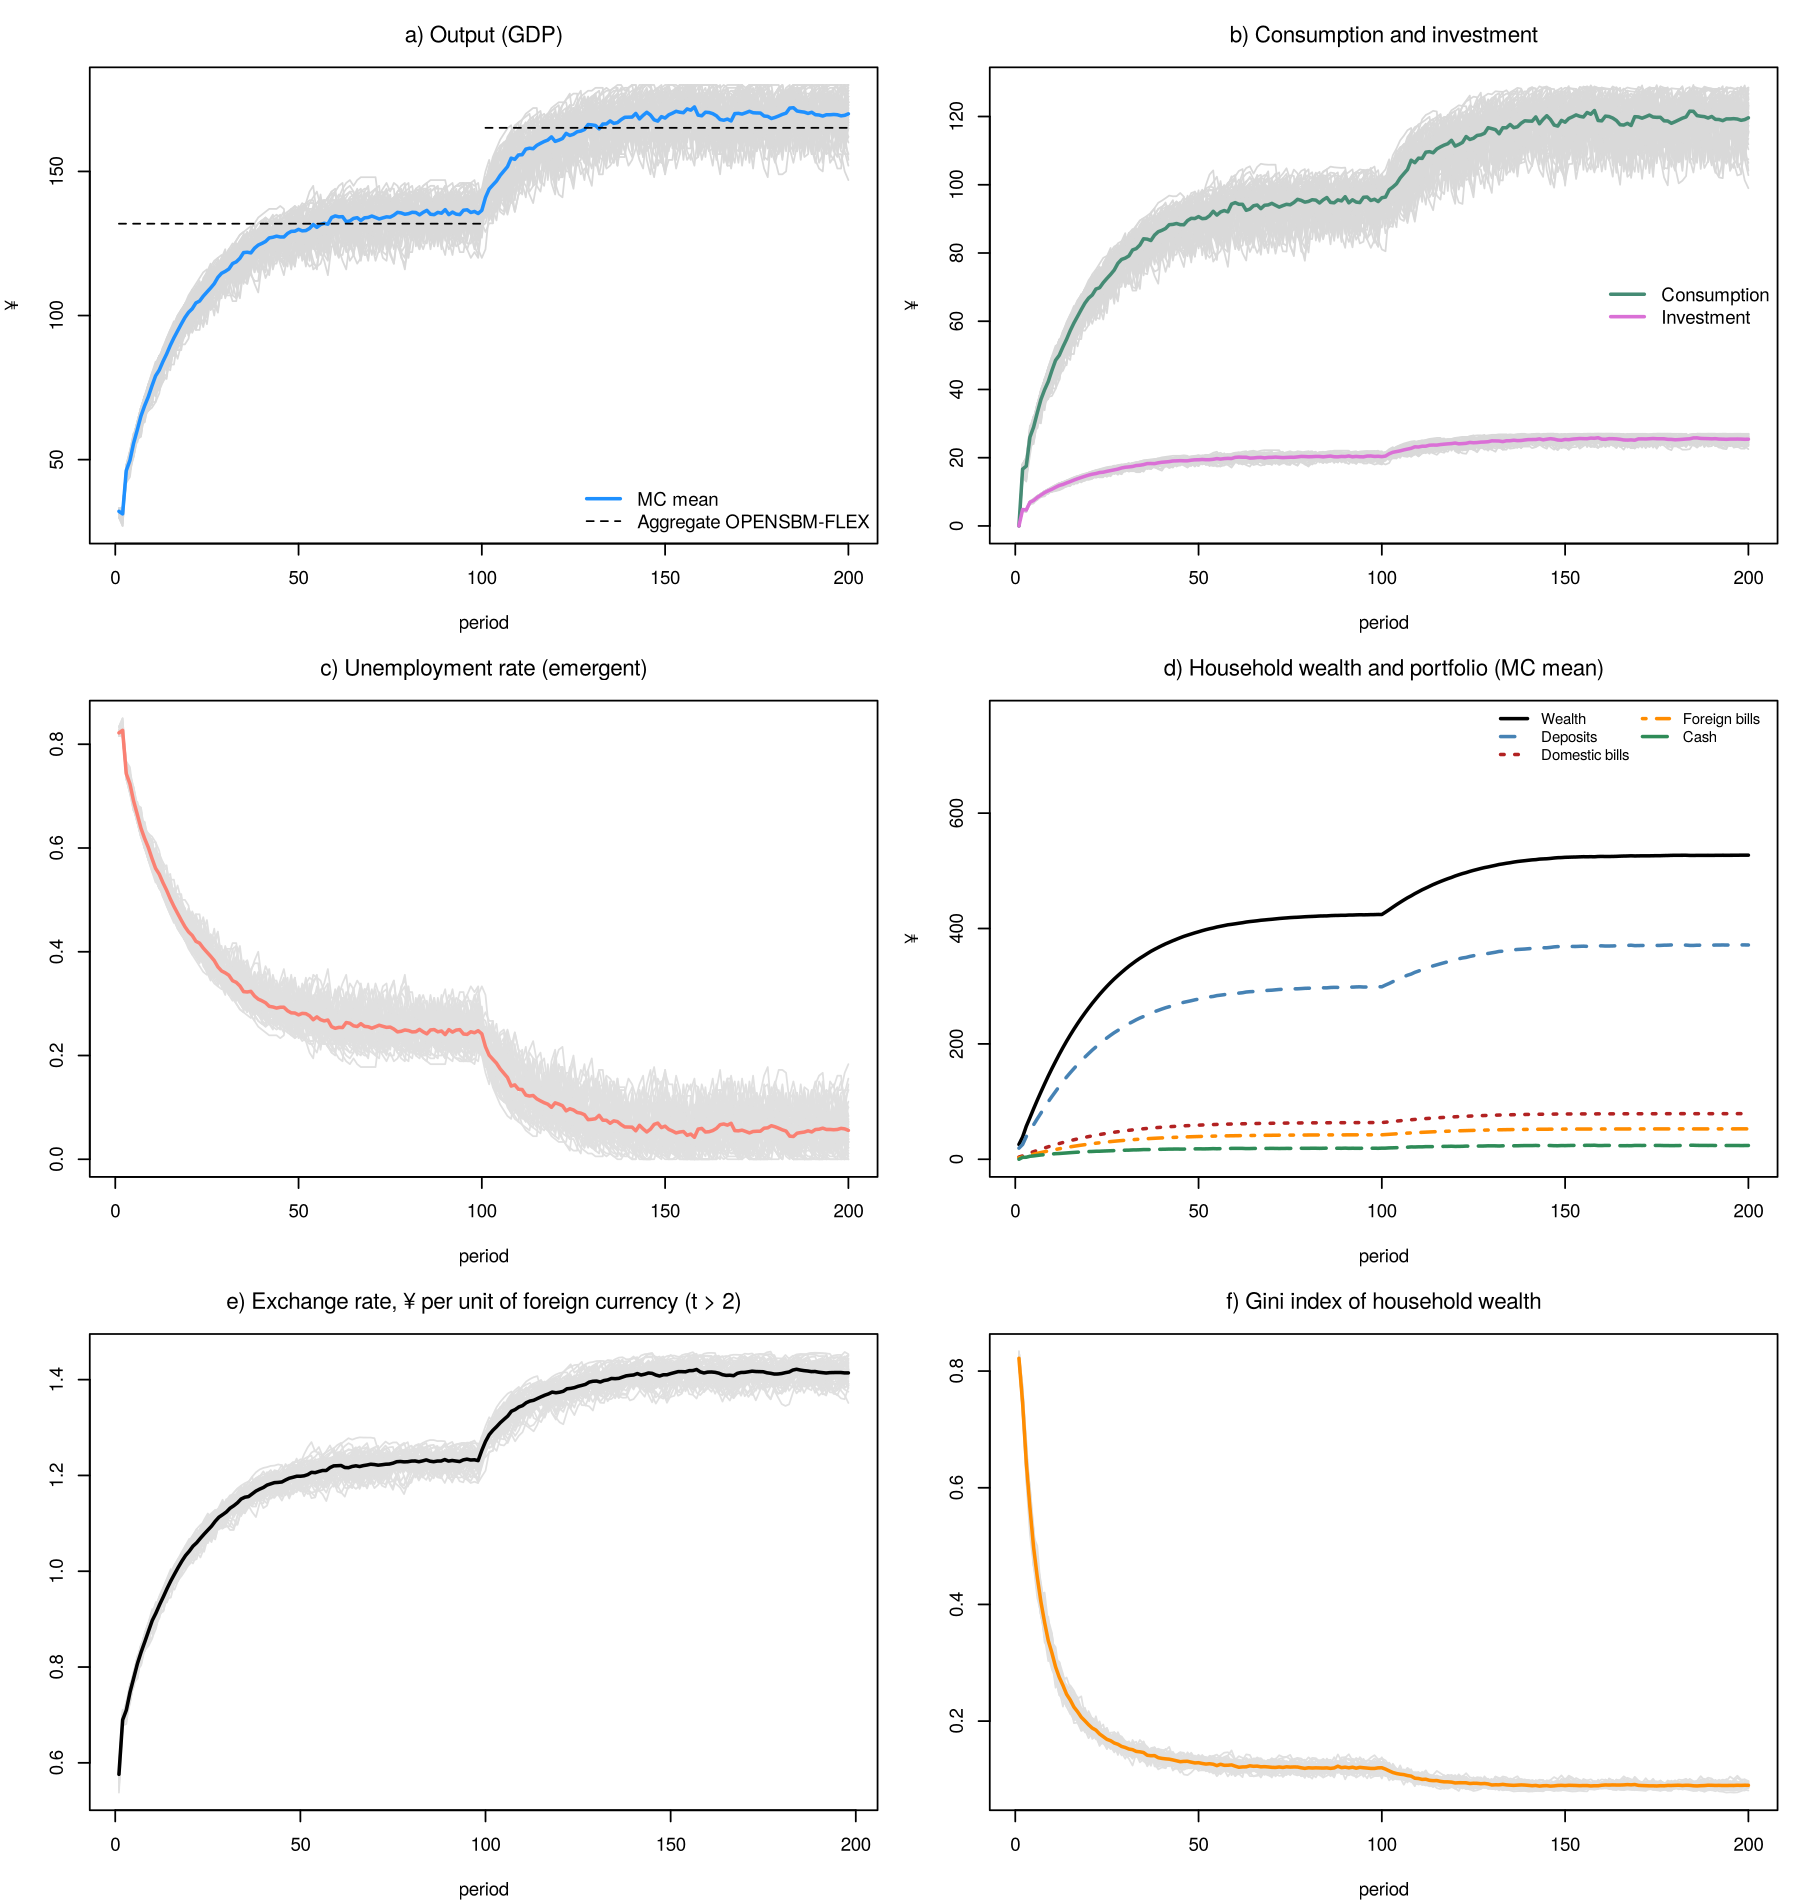
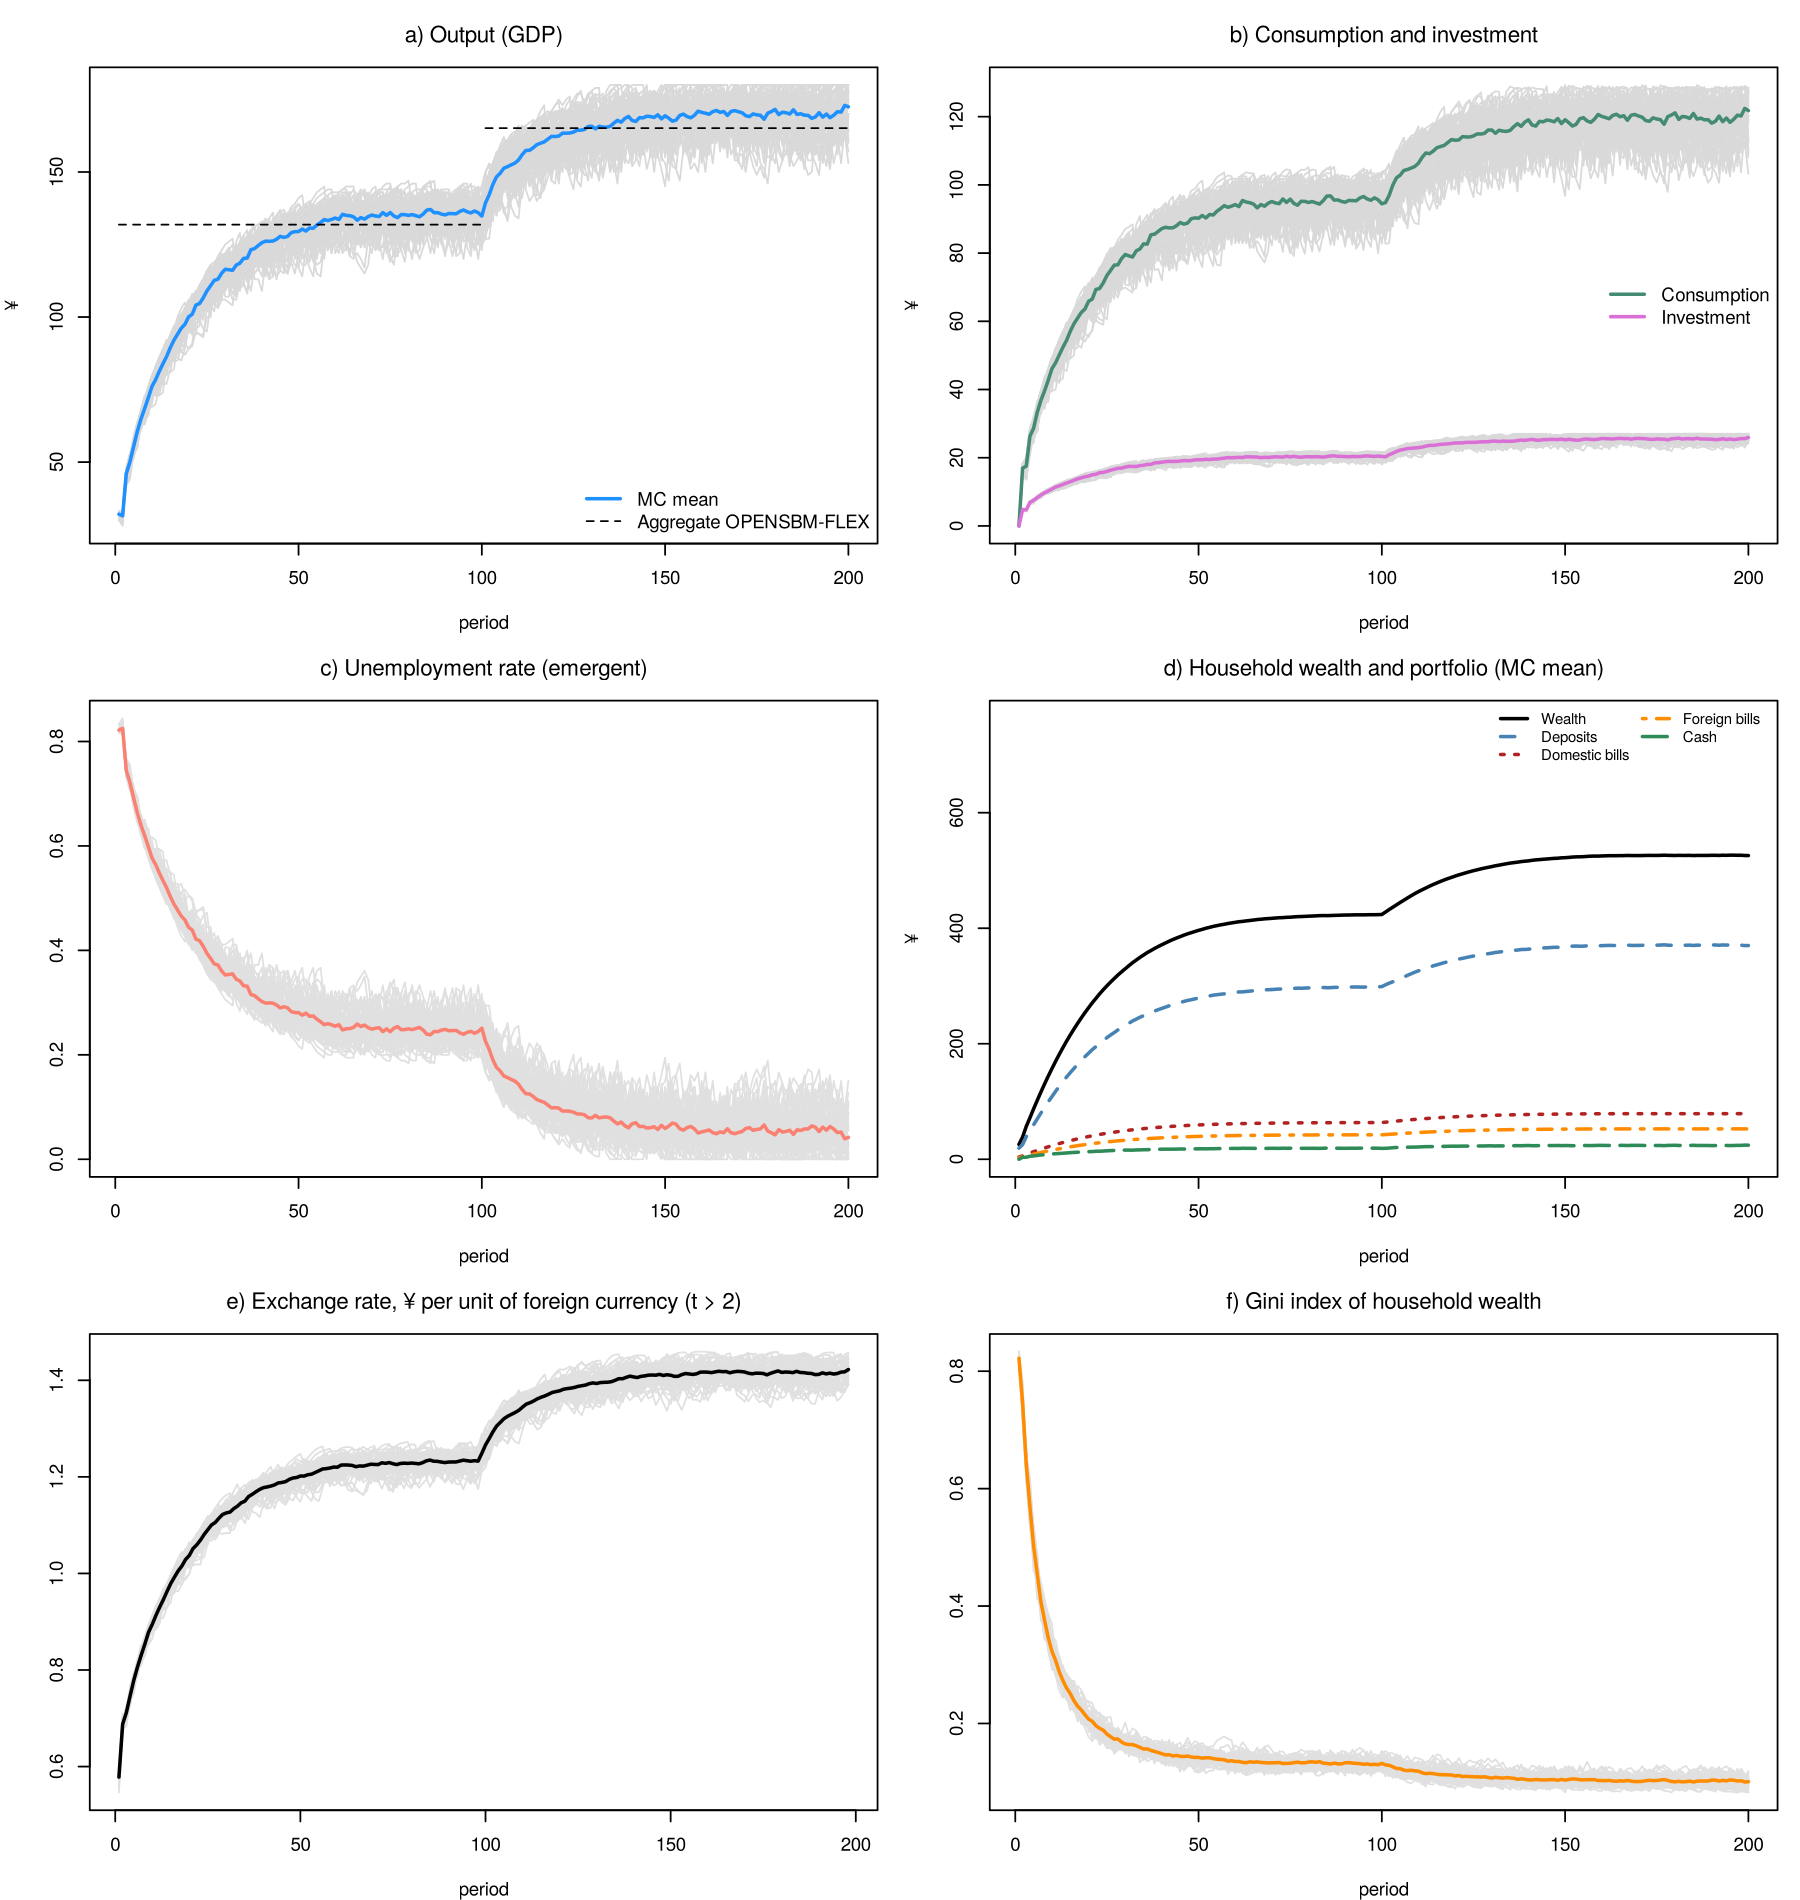
ABM models: independent queues for jobs (order_j) and goods (order_c); updated results

diff --git a/README.md b/README.md
@@ -1247,7 +1247,7 @@ Model **ABM-SBM** (`4a_ABM_SBM.R`) is Model SBM populated by 180 households. Eac
 
 1. firms plan investment, and each household plans its consumption out of its *last* disposable income and its wealth, $c_i = \alpha_{1,i} \cdot yd_{i,-1} + \alpha_2 \cdot v_{i,-1}$;
 1. the economy needs one worker for each unit of planned demand, and a **job lottery** fills the jobs: with a hiring spread $s = 0.1$, the number of jobs filled is a random fraction of those needed, so that some jobs remain unfilled;
-1. households are randomly ordered in a queue, which decides both who gets a job and who reaches the shop first;
+1. households are randomly ordered in two independent queues: one decides who gets a job, the other who reaches the shop first;
 1. goods are served first to the government, then to firms, and finally to households, **first-come-first-served**, until they run out;
 1. the wage bill (what is left of sales after interest and depreciation, here treated as wages) is split among the employed, and bank profits among all households;
 1. households pay taxes, accumulate wealth and choose their portfolio (cash for transactions, bills, and deposits as the buffer stock).
@@ -1260,20 +1260,21 @@ The core of the matching process is:
     Ypot = N * pr                                       # Macro: goods that can be produced
 
     ## TICK 3: households are re-shuffled ####
-    order = sample(nHouseholds)                         # Queue for both jobs and goods
+    order_c = sample(nHouseholds)                       # Queue for goods
+    order_j = sample(nHouseholds)                       # Queue for jobs (independent of order_c)
 
     ## TICK 4: goods are served: government, firms, then households ####
     Gs  = min(Gpl, Ypot)                                # Macro: government purchases served
     Is  = min(Ipl, Ypot - Gs)                           # Macro: investment served
     YC  = Ypot - Gs - Is                                # Macro: goods left for households
-    cdq = cd[order]                                     # Micro: planned demand in queue order
+    cdq = cd[order_c]                                   # Micro: planned demand in queue order
     cda = cumsum(cdq) - cdq                             # Micro: goods claimed by those ahead
     cds = pmin(cdq, pmax(0, YC - cda))                  # Micro: actually served
-    c   = rep(0, nHouseholds); c[order] = cds           # Micro: actual consumption
+    c   = rep(0, nHouseholds); c[order_c] = cds         # Micro: actual consumption
     Y   = Gs + Is + sum(c)                              # Macro: output (GDP) = goods actually sold
 ```
 
-The goods market works like a queue at a shop. For each household, `cumsum(cdq)` is the total demand of all the households ahead of it in the queue *plus* its own demand. Subtracting its own demand, `cdq`, gives `cda`, the goods already claimed by those ahead of it when it reaches the shop. The household is then served its planned demand or what is left, `YC - cda`, whichever is smaller (and nothing if no goods are left).
+The goods market works like a queue at a shop. For each household, `cumsum(cdq)` is the total demand of all the households ahead of it in the queue *plus* its own demand. Subtracting its own demand, `cdq`, gives `cda`, the goods already claimed by those ahead of it when it reaches the shop. The household is then served its planned demand or what is left, `YC - cda`, whichever is smaller (and nothing if no goods are left). The job queue, `order_j`, is used later in the period, when the wage bill is split among the first `N` households in it. Since the two queues are drawn independently, the households left without a job are not also, systematically, the last to be served at the shop.
 
 > ### 📦 Box M - Writing sequential code: getting the order right
 >
@@ -1304,9 +1305,9 @@ src="beijing_figures/ABM_SBM.png" alt="Results of Model ABM-SBM" width="900">
 
 Three results are worth highlighting.
 
-- **Output is higher than in the aggregate model.** Mean GDP settles at about ¥136 before the shock and ¥170 after it, against ¥132 and ¥165 in Model SBM. When hiring falls short, households are rationed and cannot spend all they planned. The unspent income becomes **involuntary saving**, so that household wealth is higher (about ¥424 against ¥368). Through the fiscal anchor, more wealth means more interest-bearing assets, and hence higher national income. Without frictions and heterogeneity ($s = 0$ and identical households), GDP is about ¥133 and ¥166. This is close to, but not exactly equal to, the aggregate result, because households consume out of last period's income and jobs come in whole units.
+- **Output is higher than in the aggregate model.** Mean GDP settles at about ¥136 before the shock and ¥170 after it, against ¥132 and ¥165 in Model SBM. When hiring falls short, households are rationed and cannot spend all they planned. The unspent income becomes **involuntary saving**, so that household wealth is higher (about ¥423 against ¥368). Through the fiscal anchor, more wealth means more interest-bearing assets, and hence higher national income. Without frictions and heterogeneity ($s = 0$ and identical households), GDP is about ¥133 and ¥166. This is close to, but not exactly equal to, the aggregate result, because households consume out of last period's income and jobs come in whole units.
 - **Involuntary unemployment emerges.** Labour demand is determined by effective demand, not by the number of households willing to work, and the unemployment rate settles at about 24% before the shock and 5% after it. The level of the unemployment rate depends on the size of the workforce, which is a parameter, but its fluctuations and its response to fiscal policy are generated by the model.
-- **Wealth inequality emerges.** Households differ in their propensities to consume and in their luck in the job lottery, so that their wealth differs too. The Gini index of household wealth settles at about 0.12 before the shock and falls to about 0.09 after it, because more households are employed. Figure 18 shows how the wealth distribution of a single run evolves over time (wealth per household is measured in ¥ on the horizontal axis). The colours mark three phases. In the first 60 periods (grey), households start with no wealth and accumulate it, and the Gini index falls from its high initial values. Between periods 60 and 100 (blue), the distribution fluctuates around a stable shape, and the changes in the Gini index of a single run are mostly noise. From period 101 (red), the fiscal expansion raises employment and the Gini index falls to about 0.09. The legend reports both the Gini index of the run shown and its mean across the 50 runs, which filters out the noise.
+- **Wealth inequality emerges.** Households differ in their propensities to consume and in their luck in the queues for jobs and goods, so that their wealth differs too. The Gini index of household wealth settles at about 0.13 before the shock and falls to about 0.10 after it, because more households are employed. Figure 18 shows how the wealth distribution of a single run evolves over time (wealth per household is measured in ¥ on the horizontal axis). The colours mark three phases. In the first 60 periods (grey), households start with no wealth and accumulate it, and the Gini index falls from its high initial values. Between periods 60 and 100 (blue), the distribution fluctuates around a stable shape, and the changes in the Gini index of a single run are mostly noise. From period 101 (red), the fiscal expansion raises employment and the Gini index falls to about 0.10. The legend reports both the Gini index of the run shown and its mean across the 50 runs, which filters out the noise.
 
 #### Figure 18. Model ABM-SBM: the distribution of household wealth (run 1)
 

diff --git a/ANSWERS.md b/ANSWERS.md
@@ -58,6 +58,6 @@ The answers below are short and refer to the default calibration of the models. 
 ### Box N - Agent-based models
 
 1. **Back to the aggregate model.** Mean GDP is about ¥133 before the shock and ¥166 after it, very close to the results of Model SBM (¥132 and ¥165), and the Monte Carlo runs no longer differ from one another. The results are not identical because households plan their consumption out of last period's disposable income (rather than current income, as in Model SBM), and because workers come in whole units.
-1. **More friction.** The Monte Carlo runs become much more dispersed (the standard deviation of GDP across runs at period 100 rises from about ¥5 to ¥16), and mean GDP *rises* (to about ¥143 and ¥176). More frequent rationing means more involuntary saving, so that household wealth is much higher (about ¥529 against ¥424 before the shock). Through the fiscal anchor, higher wealth means more interest income and more consumption out of wealth, and hence higher income.
-1. **More heterogeneity.** The Gini index of wealth rises (from about 0.12 to 0.18 before the shock), while mean GDP is virtually unchanged: in this model, a wider dispersion of propensities around the same mean changes the distribution of wealth, but not aggregate demand.
+1. **More friction.** The Monte Carlo runs become much more dispersed (the standard deviation of GDP across runs at period 100 rises from about ¥6 to ¥20), and mean GDP *rises* (to about ¥143 and ¥176). More frequent rationing means more involuntary saving, so that household wealth is much higher (about ¥529 against ¥423 before the shock). Through the fiscal anchor, higher wealth means more interest income and more consumption out of wealth, and hence higher income.
+1. **More heterogeneity.** The Gini index of wealth rises (from about 0.13 to 0.19 before the shock), while mean GDP is virtually unchanged: in this model, a wider dispersion of propensities around the same mean changes the distribution of wealth, but not aggregate demand.
 1. **A larger workforce.** The unemployment rate rises sharply (to about 46% before the shock and 32% after it), while GDP does not change. Unemployment is involuntary and demand-determined: employment depends on effective demand, not on the number of people willing to work.
